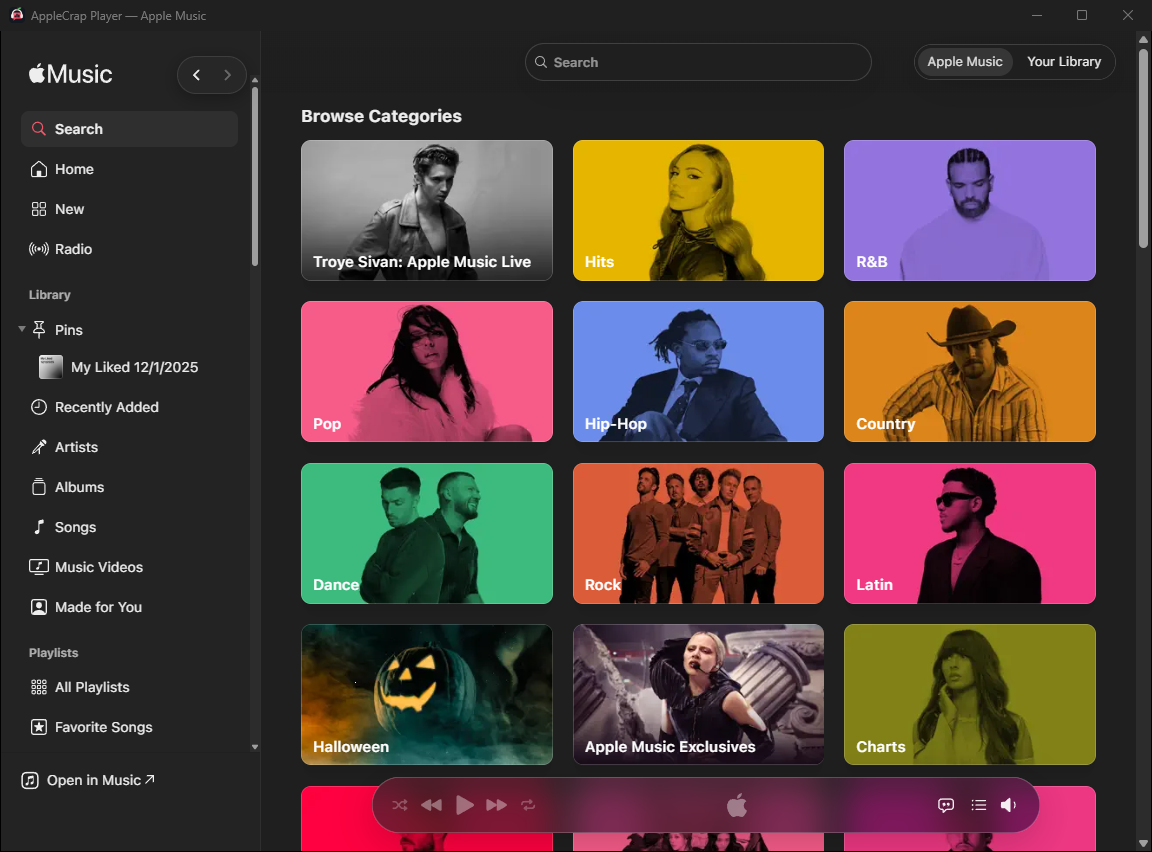
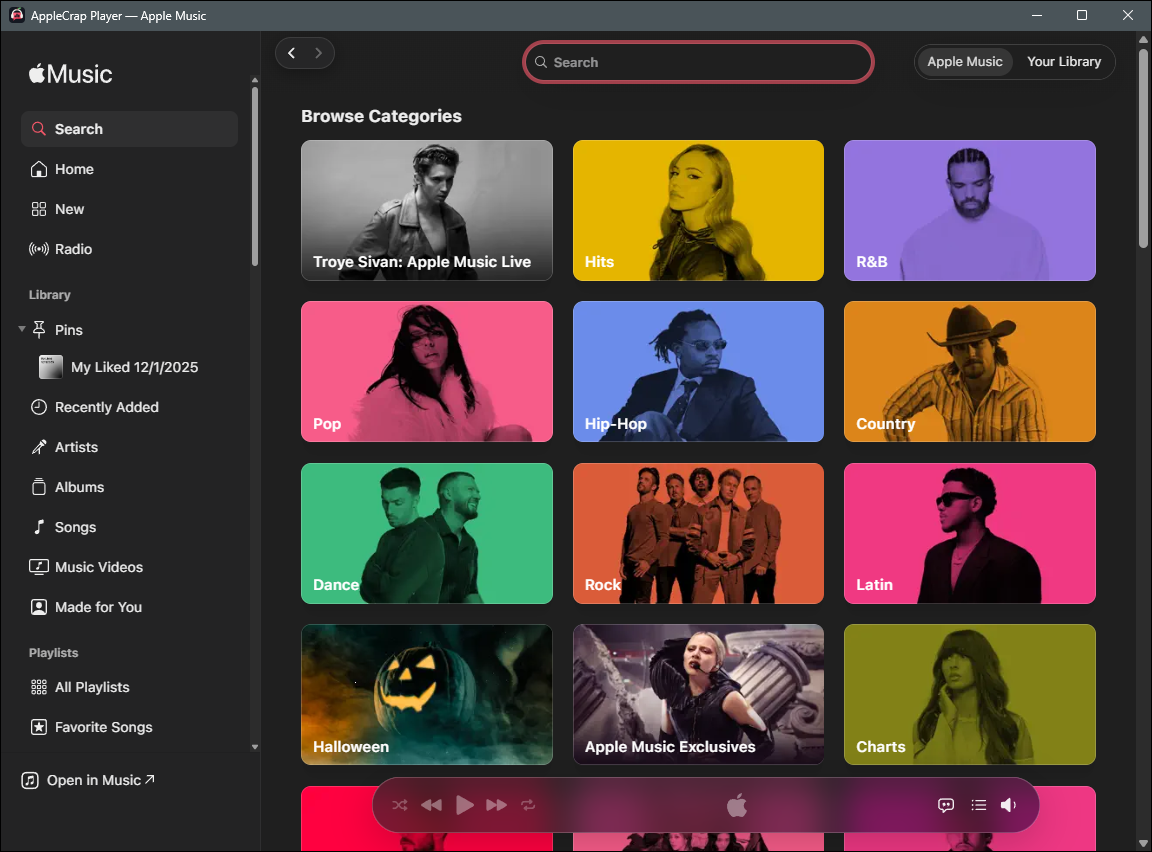
Player: Back/Forward just outside the sidebar, slimmer
The user prefers the pill outside the sidebar rather than inside it. It
now sits 14px right of the sidebar and 6px from the top, slimmed to 30px
tall: page titles start 32px down, and playlist artwork and Search's box
sit lower, so it clears them all (checked on New, Radio, Search and a
playlist). Narrow windows keep the spot after the menu button. README
screenshot retaken.

Changed region(s): [[0.0, 0.0, 1.0, 0.0915], [0.4688, 0.0915, 0.75, 0.1221]]

diff --git a/src-tauri/src/scripts/player-nav.js b/src-tauri/src/scripts/player-nav.js
@@ -1,6 +1,6 @@
 // Back and Forward for the embedded Apple Music player window, which has no
-// browser toolbar. A small pill in the sidebar's top row, beside the Apple
-// Music logo, plus the usual shortcuts (Alt+Left / Alt+Right) and the mouse's
+// browser toolbar. A slim pill just outside the sidebar, in the strip above
+// the page, plus the usual shortcuts (Alt+Left / Alt+Right) and the mouse's
 // side buttons. The top-right corner looked free but isn't: playlist pages put
 // their share and menu buttons there, and Search puts its tabs there.
 //
@@ -84,7 +84,7 @@
           z-index: 2147483647;
           display: flex;
           gap: 2px;
-          padding: 3px;
+          padding: 2px;
           border-radius: 999px;
           background: rgba(40, 40, 42, 0.72);
           border: 1px solid rgba(255, 255, 255, 0.1);
@@ -97,8 +97,8 @@
           position: relative;
           display: grid;
           place-items: center;
-          width: 30px;
-          height: 30px;
+          width: 26px;
+          height: 26px;
           padding: 0;
           border: 0;
           border-radius: 999px;
@@ -184,13 +184,15 @@
     place()
     window.addEventListener('resize', place)
     if (nav) nav.addEventListener('currententrychange', () => setTimeout(place, 50))
-    // Apple's app can rebuild its sidebar; a cheap check keeps the pill on it.
+    // Apple's app can rebuild its sidebar; a cheap check keeps the pill beside it.
     setInterval(place, 2000)
   }
 
   // Where the pill goes, following Apple's own layout:
-  // - a normal window has a sidebar: its top row, right-aligned, level with
-  //   the logo;
+  // - a normal window has a sidebar: just outside it, in the strip above the
+  //   page. Page titles ("New", "Radio") start 32px down and 40px in, and
+  //   playlist artwork and Search's box sit lower, so a 30px pill 6px from
+  //   the top clears them all;
   // - a narrow window folds the sidebar into a top bar (menu button left,
   //   logo middle, Sign In or the account on the right): just after the menu
   //   button.
@@ -199,12 +201,9 @@
     if (!sidebar) return null
     const bar = sidebar.getBoundingClientRect()
     if (bar.width === 0 || bar.height === 0) return null
-    const logo = sidebar.querySelector('.logo a') || sidebar.querySelector('.logo')
-    const logoBox = logo && logo.getBoundingClientRect()
 
-    if (bar.height > 120 && logoBox && logoBox.height > 0) {
-      const left = Math.max(logoBox.right + 12, bar.right - 14 - width)
-      return { left, top: logoBox.top + logoBox.height / 2 - height / 2 }
+    if (bar.height > 120) {
+      return { left: bar.right + 14, top: 6 }
     }
     const menu = sidebar.querySelector('button.menuicon')
     const menuBox = menu && menu.getBoundingClientRect()

diff --git a/README.md b/README.md
@@ -50,7 +50,7 @@ Give it a wider window and the activity feed joins in:
 
 The embedded Apple Music player — sign in once, then it can stay hidden all stream while requests queue into it:
 
-<img src="img/screenshots/player.png" width="720" alt="The embedded Apple Music player window, signed in and showing Browse, with Back and Forward beside the Apple Music logo">
+<img src="img/screenshots/player.png" width="720" alt="The embedded Apple Music player window, signed in and showing Browse, with Back and Forward just outside the sidebar">
 
 ## Requirements
 
@@ -75,8 +75,8 @@ Portable storage uses `./data` beside the executable. If that folder is not writ
 
 Your keyboard's **media keys** (play/pause, next, previous) control the player while it has a track loaded — no need to focus the app first. When AppleCrap is not holding a track, the keys go back to your other apps, so they only take over the keys while they are actually the thing playing. You can turn this off in **Setup**. The current track also shows in the Windows "now playing" popup.
 
-To browse Apple Music in the player window, use the **Back** and **Forward** buttons beside the Apple Music
-logo, **Alt+Left/Right Arrow**, or your mouse's side buttons. Moving around never stops the music.
+To browse Apple Music in the player window, use the **Back** and **Forward** buttons at the top, just outside
+the sidebar, **Alt+Left/Right Arrow**, or your mouse's side buttons. Moving around never stops the music.
 
 The player window can stay hidden the whole time; while hidden it stops drawing entirely, so it costs almost nothing to leave running beside a game.
 
